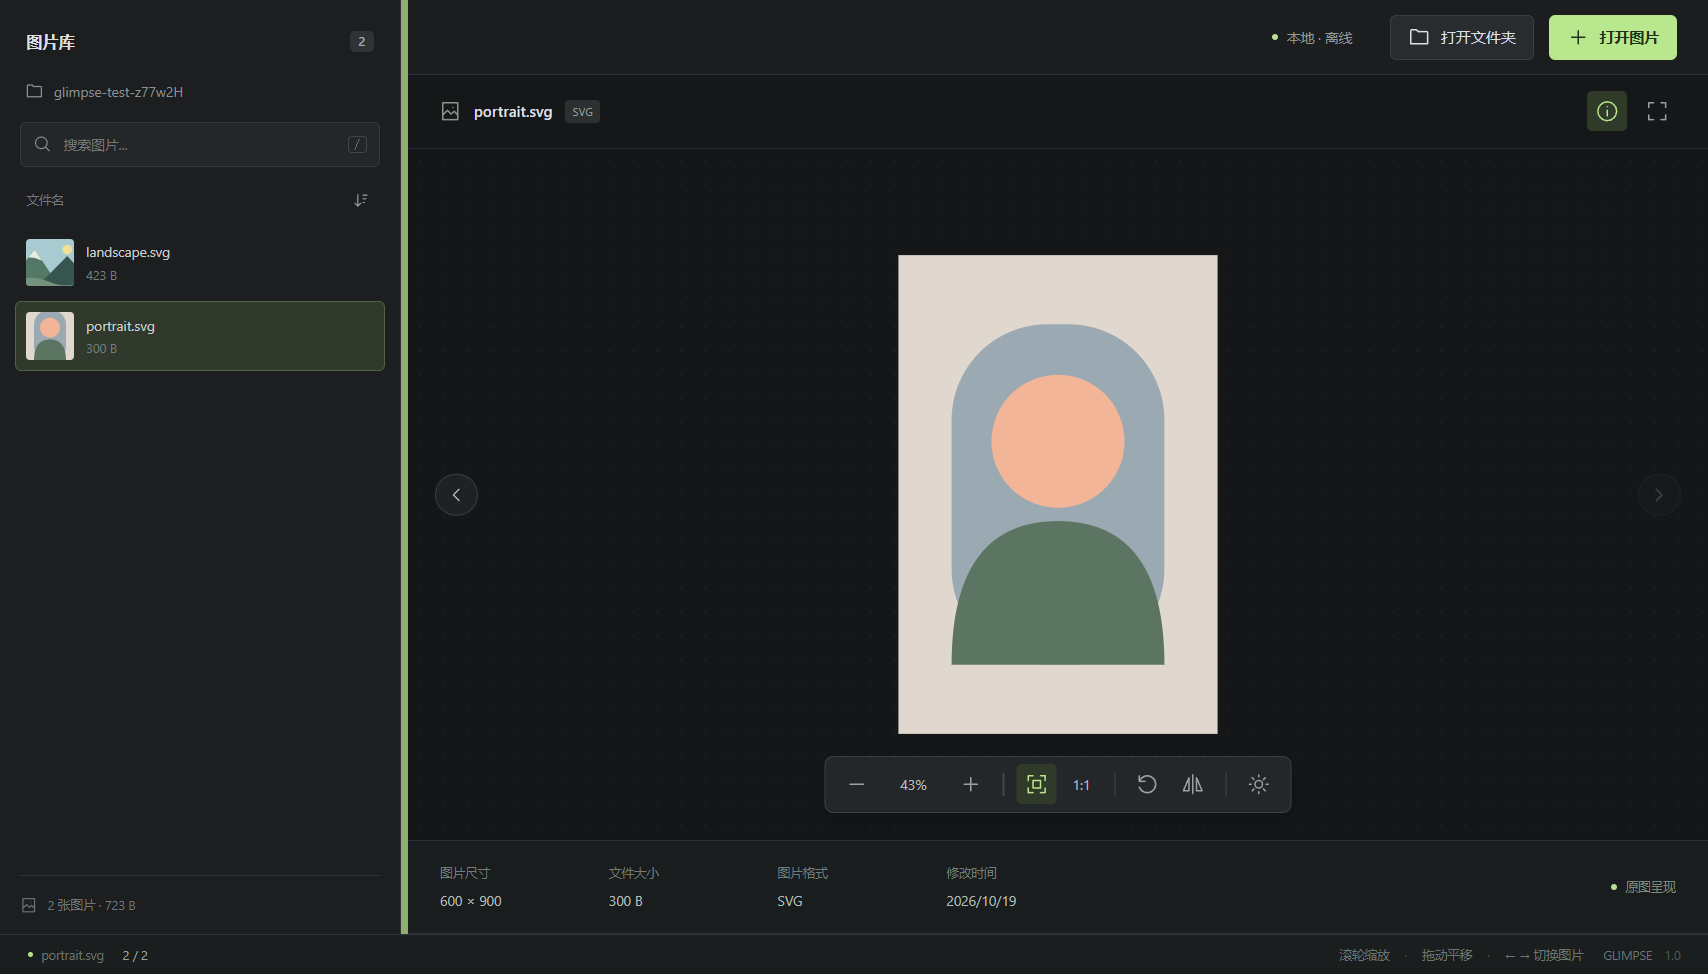
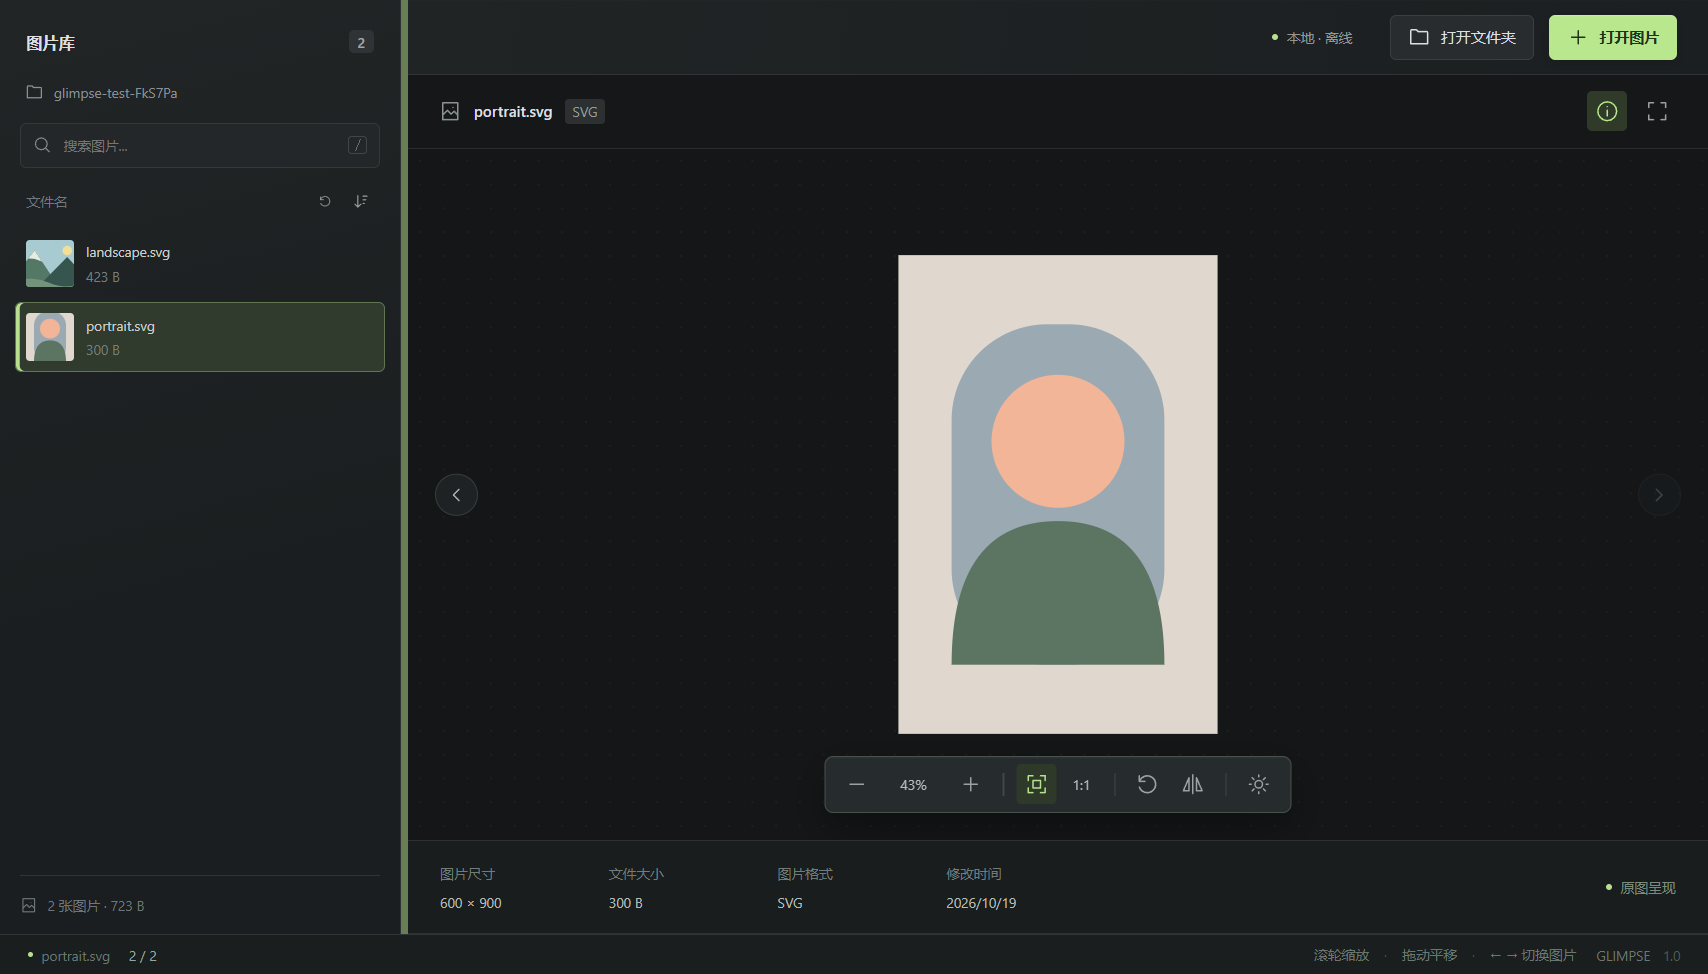
功能优化

diff --git a/src/app.js b/src/app.js
@@ -34,9 +34,63 @@ new ResizeObserver(()=>{if(mode==='fit')fit();}).observe(canvas);
 document.addEventListener('keydown',e=>{if((e.ctrlKey||e.metaKey)&&e.key.toLowerCase()==='o'){e.preventDefault();open(e.shiftKey);return;}if(e.target instanceof HTMLInputElement)return; const key=e.key.toLowerCase();const actions={'arrowleft':'prev','arrowright':'next','+':'zoom-in','=':'zoom-in','-':'zoom-out','0':'fit','1':'actual','r':'rotate','h':'flip','f':'fullscreen'};if(actions[key]){e.preventDefault();$(actions[key]).click();}if(key==='/'){e.preventDefault();$('search').focus();}});
 let dragDepth=0;document.addEventListener('dragenter',e=>{e.preventDefault();dragDepth++;$('drop-overlay').hidden=false;});document.addEventListener('dragover',e=>e.preventDefault());document.addEventListener('dragleave',()=>{if(--dragDepth<=0){dragDepth=0;$('drop-overlay').hidden=true;}});document.addEventListener('drop',async e=>{e.preventDefault();dragDepth=0;$('drop-overlay').hidden=true;const file=e.dataTransfer.files[0];if(!file)return;try{if(window.viewer)load(await window.viewer.drop(file));}catch(error){toast(`无法打开：${error.message}`);}});
 window.viewer?.onOpen(load);controls();
+let refreshing = false;
+const refreshButton = document.createElement('button');
+refreshButton.id = 'refresh';
+refreshButton.className = 'icon-button';
+refreshButton.title = '刷新图片列表';
+refreshButton.setAttribute('aria-label', '刷新图片列表');
+refreshButton.innerHTML = `<svg viewBox="0 0 24 24" aria-hidden="true"><path d="${paths.rotate}"/></svg>`;
+$('sort').before(refreshButton);
+refreshButton.disabled = true;
+const listActions = document.createElement('div');
+listActions.className = 'list-actions';
+refreshButton.before(listActions);
+listActions.append(refreshButton, $('sort'));
+window.viewer?.onOpen(() => { refreshButton.disabled = false; });
+new MutationObserver(() => { refreshButton.disabled = !$('folder-name').title; }).observe($('folder-name'), { attributes: true });
+refreshButton.onclick = async () => {
+  if (deleting || refreshing) return;
+  refreshing = true;
+  refreshButton.disabled = true;
+  refreshButton.classList.add('refreshing');
+  const selectedPath = files[index]?.path;
+  const query = $('search').value;
+  try {
+    const data = await window.viewer.refresh();
+    if (!data) return;
+    data.selected = Math.max(0, data.files.findIndex(file => file.path === selectedPath));
+    load(data);
+    $('search').value = query;
+    renderList();
+    toast(`列表已刷新，共 ${files.length} 张图片`);
+  } catch (error) { toast(`刷新失败：${error.message}`); }
+  finally { refreshing = false; refreshButton.disabled = false; refreshButton.classList.remove('refreshing'); }
+};
+const closeDialog = document.createElement('dialog');
+closeDialog.id = 'close-dialog';
+closeDialog.setAttribute('aria-labelledby', 'close-title');
+closeDialog.setAttribute('aria-describedby', 'close-description');
+closeDialog.innerHTML = `<div class="close-heading"><img src="assets/icon.png" alt=""><span>GLIMPSE</span><button class="icon-button" id="close-cancel-icon" aria-label="取消关闭" title="取消关闭">×</button></div><h2 id="close-title">暂时离开 Glimpse？</h2><p id="close-description">保留在托盘，下次继续浏览。也可以直接退出应用。</p><div class="close-actions"><button class="button subtle" id="close-cancel">取消</button><button class="button subtle" id="close-quit">直接退出</button><button class="button primary" id="close-tray" autofocus>最小化到托盘</button></div>`;
+document.body.append(closeDialog);
+let previousFocus;
+function closeChoice(choice) {
+  closeDialog.close();
+  previousFocus?.focus();
+  window.viewer?.closeChoice(choice);
+}
+window.viewer?.onClose(() => {
+  if (closeDialog.open) return;
+  previousFocus = document.activeElement;
+  closeDialog.showModal();
+});
+$('close-cancel').onclick = $('close-cancel-icon').onclick = () => closeChoice('cancel');
+$('close-quit').onclick = () => closeChoice('quit');
+$('close-tray').onclick = () => closeChoice('tray');
+closeDialog.addEventListener('cancel', event => { event.preventDefault(); closeChoice('cancel'); });
 let deleting = false;
 async function trash(file, button) {
-  if (deleting) return;
+  if (deleting || refreshing) return;
   deleting = true;
   button.disabled = true;
   try {

diff --git a/src/style.css b/src/style.css
@@ -17,5 +17,35 @@ body.resizing{cursor:col-resize;user-select:none}
 .file-delete:hover{background:#623d35;color:#ffe1d8}
 .file-row:hover .file-delete,.file-row:focus-within .file-delete{visibility:visible}
 .file-delete svg{width:15px;height:15px}
+.count,.search kbd,.list-label,.file-row .size,.sidebar-bottom,.tag,.eyebrow,.key-hint,.formats,.meta-label,.metadata-note,.filmstrip-header,.filmstrip-empty,footer{font-size:11px}
+button,.file-row,.search,#sidebar-resizer{transition:background-color .18s ease,border-color .18s ease,color .18s ease,box-shadow .18s ease}
+.sidebar{background:linear-gradient(165deg,#222526,#1b1e20 65%)}
+.topbar{background:linear-gradient(100deg,#202425,#1c1f21);box-shadow:0 1px 0 #ffffff03 inset}
+.search:focus-within{border-color:#8ca576;box-shadow:0 0 0 3px #b8e78d0c}
+.file-row:hover{background:#2b3031;border-color:#ffffff0a}
+.file-row.selected{background:#303b2d;border-color:#617650;box-shadow:inset 3px 0 #b8df90}
+.file-delete{color:#969e99;visibility:visible;opacity:0;transition:opacity .18s ease,background-color .18s ease,color .18s ease}
+.file-row:hover .file-delete,.file-row:focus-within .file-delete{opacity:1}
+.file-delete:hover{background:#d996891a;color:#efb1a4;box-shadow:inset 0 0 0 1px #d9968933}
+.file-delete:focus-visible{opacity:1}
+.floating-toolbar{background:#272c2ef5;border-color:#49514c;box-shadow:0 12px 32px #0005,0 1px 0 #ffffff08 inset;backdrop-filter:blur(16px)}
+.primary{box-shadow:0 1px 0 #ffffff35 inset,0 3px 10px #0002}
+.button:active:not(:disabled){transform:translateY(1px)}
+.nav-arrow:hover:not(:disabled){background:#3b453e;color:#dce9d5;border-color:#6d8063}
+.list-actions{display:flex;gap:6px}
+.refreshing svg{animation:refresh-spin .8s linear infinite}
+@keyframes refresh-spin{to{transform:rotate(360deg)}}
+#toast,.welcome,.image-error{animation:surface-in .2s ease-out}
+@keyframes surface-in{from{opacity:0;translate:0 5px}to{opacity:1;translate:0 0}}
+#close-dialog{width:460px;max-width:calc(100vw - 40px);padding:26px;border:1px solid #4a534d;border-radius:8px;background:linear-gradient(145deg,#2b302e,#202423);color:#e3e8e1;box-shadow:0 28px 90px #0008;animation:surface-in .2s ease-out}
+#close-dialog::backdrop{background:#080c0bb8;backdrop-filter:blur(5px)}
+.close-heading{display:flex;align-items:center;gap:10px;color:#a5b49f;font-size:11px}
+.close-heading img{width:28px;height:28px;border-radius:6px}
+.close-heading .icon-button{margin-left:auto;font-size:22px}
+#close-dialog h2{font-size:21px;font-weight:600;margin:25px 0 12px}
+#close-dialog p{font-size:13px;line-height:1.9;color:#a6afa9;margin:0 0 30px}
+.close-actions{display:flex;justify-content:flex-end;gap:10px}
+.close-actions .button{height:38px}
+@media(prefers-reduced-motion:reduce){*,*::before,*::after{animation:none!important;transition:none!important}}
 @media(max-width:1000px){.sidebar{width:var(--sidebar-width)}.metadata{gap:12px}.metadata>div{min-width:75px}footer{gap:8px}.footer-dot{margin:0 5px}}
 

diff --git a/README.md b/README.md
@@ -6,7 +6,7 @@ Windows Electron 图片预览应用。所有图片都在本机读取，不上传
 
 ![Glimpse 最新桌面界面](docs/ui-preview.png)
 
-采用可拖动调宽的侧边栏浏览图片，移除重复的底部胶片区与顶部品牌区，为图片留出更多空间。底部状态栏字体为 10px。
+采用可拖动调宽的侧边栏浏览图片，为图片留出更多空间。界面最小字体为 11px，支持柔和的交互过渡及减少动态效果设置。
 
 ## 开发
 
@@ -27,7 +27,8 @@ npm run dist
 
 ## 功能
 
-- 关闭窗口时可选择最小化到系统托盘、直接退出或取消。点击托盘图标恢复窗口，托盘右键菜单也可直接退出。
+- 关闭窗口时使用自定义弹窗，可选择最小化到系统托盘、直接退出或取消。点击托盘图标恢复窗口，托盘右键菜单也可直接退出。
+- 侧边栏排序旁的刷新按钮可重新读取当前目录，找回从回收站还原的图片，并保留搜索条件及仍存在的当前图片。
 
 - 打开图片或文件夹、文件拖放、同目录浏览、缩略图、文件名搜索及排序。
 - 拖动侧边栏右边缘调整宽度；也可聚焦分隔条后按左右方向键调整。
